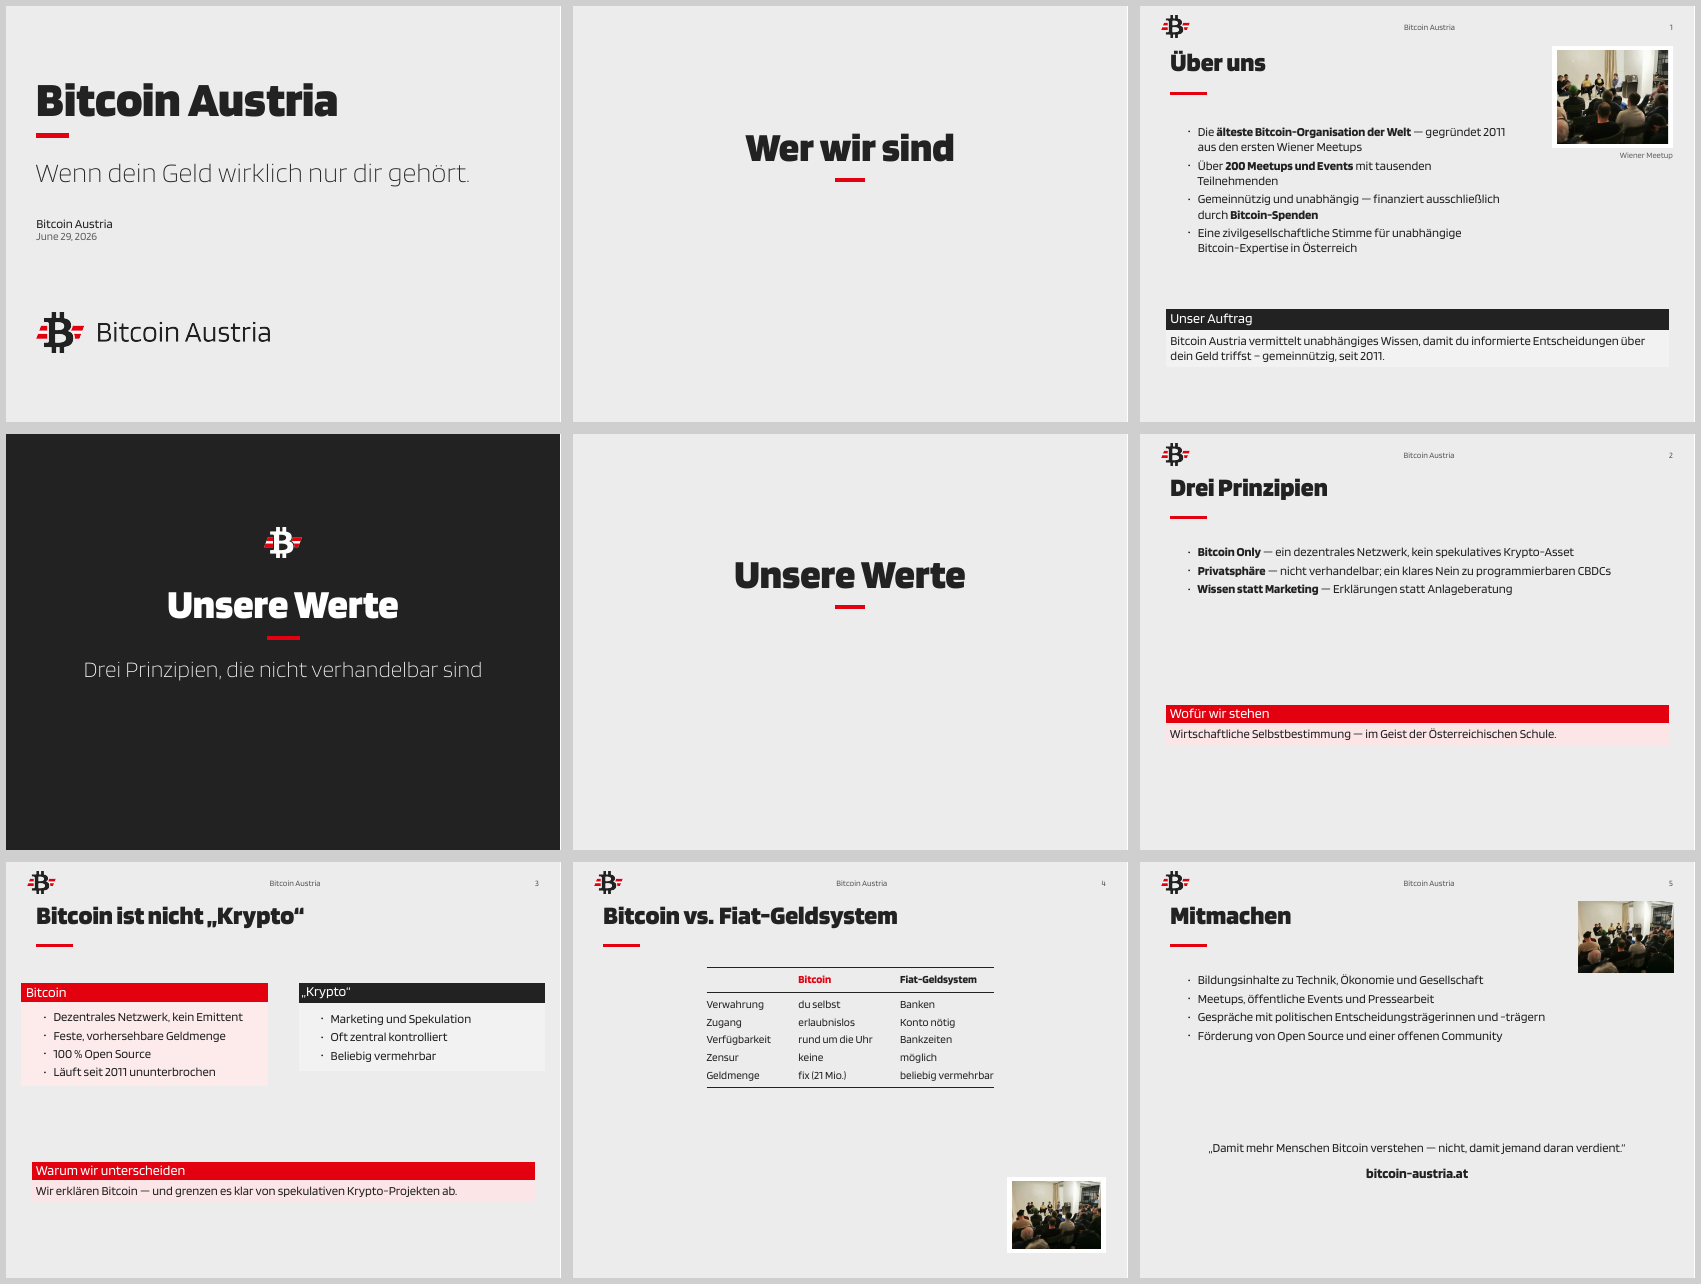
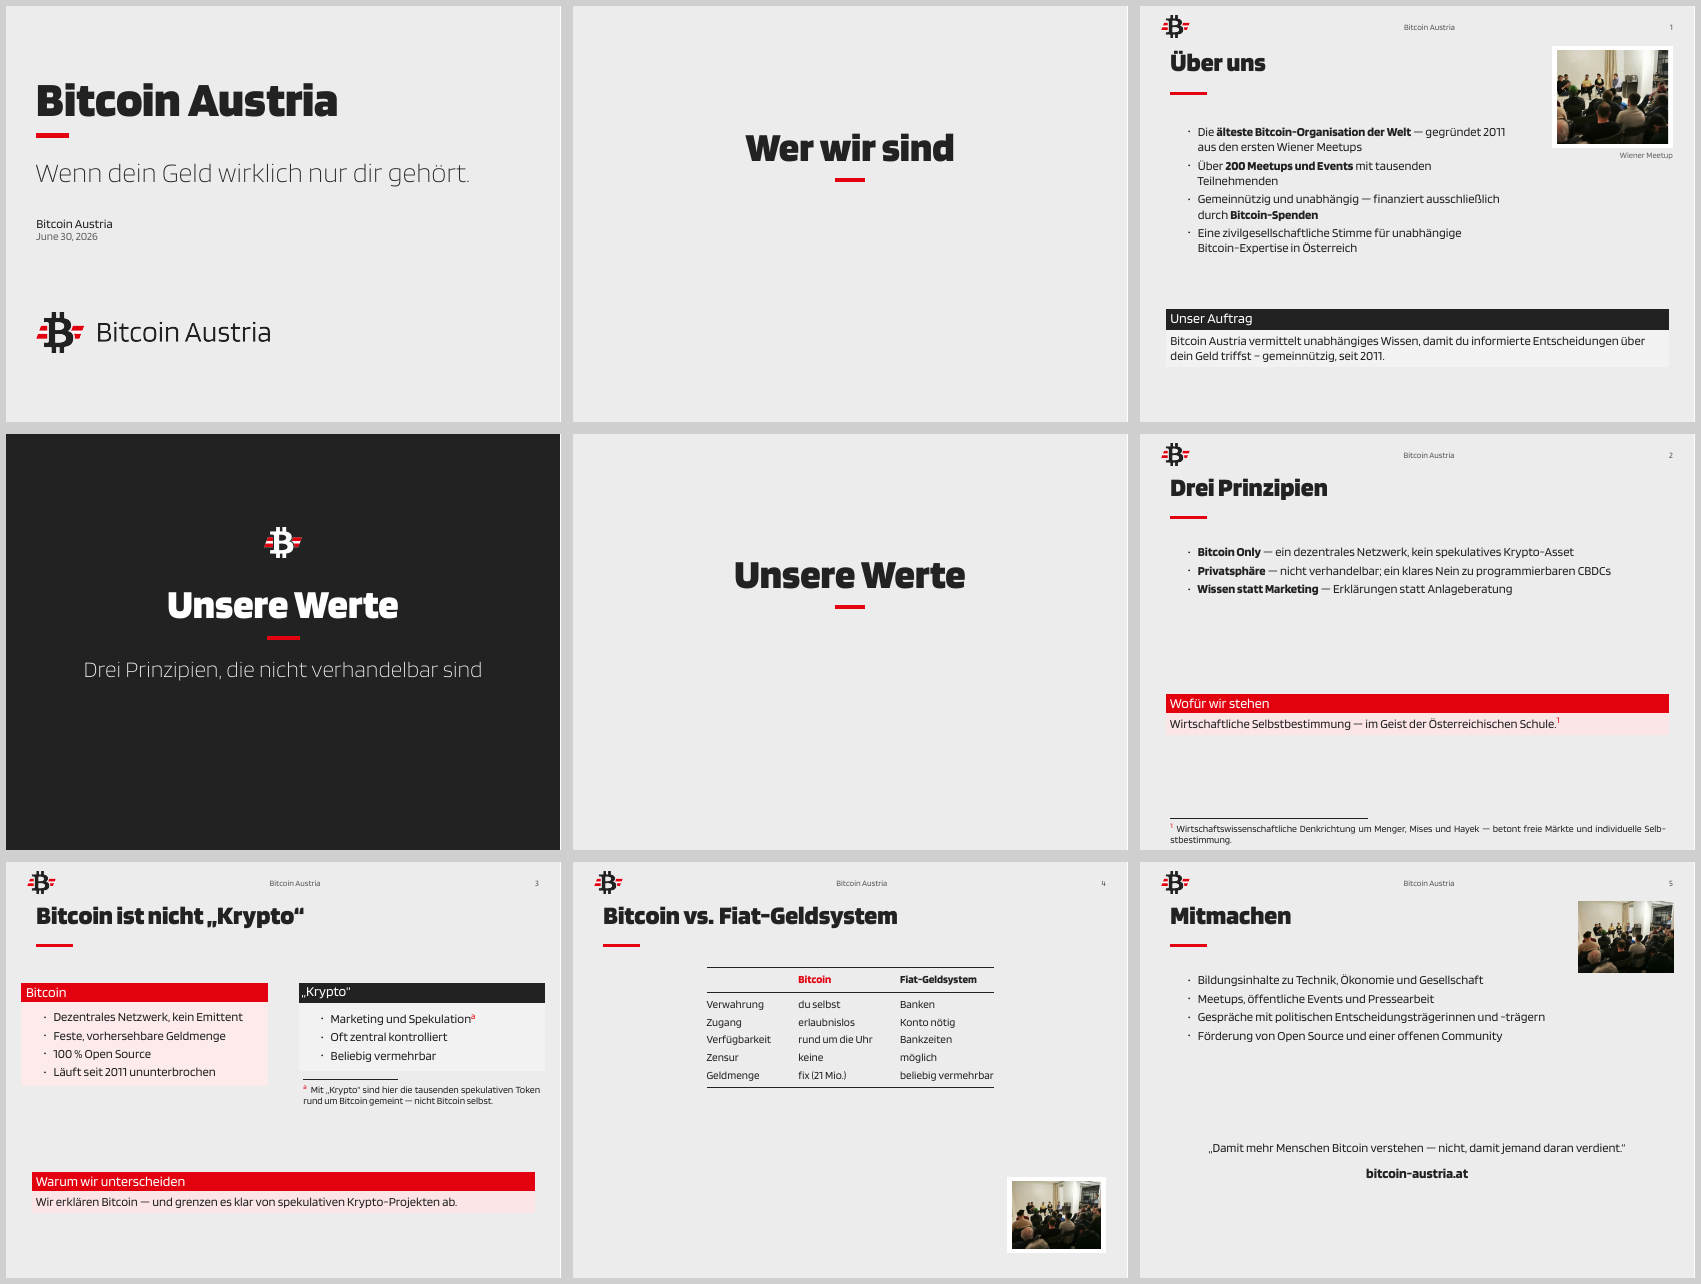
Brand footnotes and pin marks flush-left; demo two footnotes
Beamer floats footnote marks ~2.8em in from the left, which looks wrong for
a short gloss. Pin the mark flush-left (red brand mark, small gap), fixing
BOTH paths: beamer's {footnote} template (frame-level) and LaTeX's
\@user (minipage/column footnotes raised inside \comparisonslide).
Demo gains a frame-level footnote (Österreichische Schule) and a column
footnote (Krypto box) to exercise both; flush-left on 16:9 and 4:3.

diff --git a/example/demo-common.tex b/example/demo-common.tex
@@ -62,7 +62,9 @@
 
   \vfill
   \begin{alertblock}{Wofür wir stehen}
-    Wirtschaftliche Selbstbestimmung — im Geist der Österreichischen Schule.
+    Wirtschaftliche Selbstbestimmung — im Geist der Österreichischen
+    Schule.\footnote{Wirtschaftswissenschaftliche Denkrichtung um Menger, Mises
+      und Hayek — betont freie Märkte und individuelle Selbstbestimmung.}
   \end{alertblock}
 \end{frame}
 
@@ -76,7 +78,9 @@
     \end{itemize}}%
   {„Krypto“}{%
     \begin{itemize}
-      \item Marketing und Spekulation
+      \item Marketing und Spekulation\footnote{Mit „Krypto“ sind hier die
+        tausenden spekulativen Token rund um Bitcoin gemeint — nicht Bitcoin
+        selbst.}
       \item Oft zentral kontrolliert
       \item Beliebig vermehrbar
     \end{itemize}}%